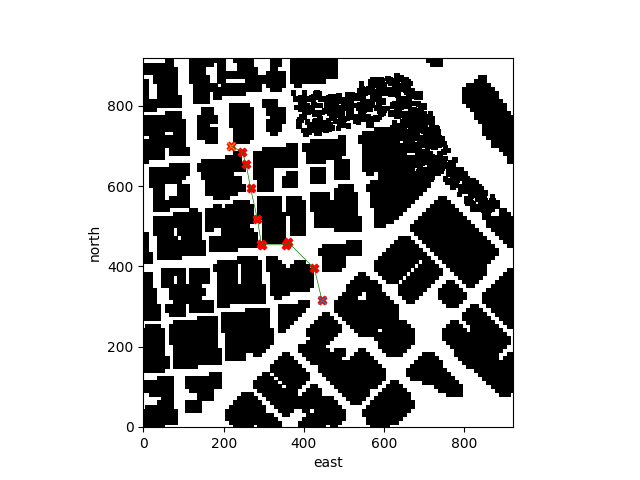
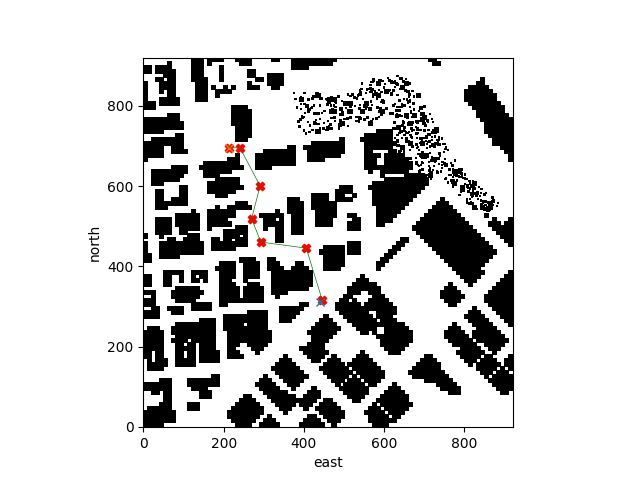
graph not working atm.

diff --git a/projects/FCND-Motion-Planning/motion_planning_original.py b/projects/FCND-Motion-Planning/motion_planning_original.py
@@ -5,16 +5,11 @@ from enum import Enum, auto
 
 import numpy as np
 
-from planning_utils import *
-from drawing_utils import plot_grid_path
+from planning_utils import a_star, heuristic, create_grid
 from udacidrone import Drone
 from udacidrone.connection import MavlinkConnection
 from udacidrone.messaging import MsgID
 from udacidrone.frame_utils import global_to_local
-
-import logging
-
-logging.basicConfig(level=logging.DEBUG)
 
 
 class States(Enum):
@@ -29,10 +24,10 @@ class States(Enum):
 
 class MotionPlanning(Drone):
 
-    def __init__(self, connection, target_lon, target_lat, target_alt, pruning_method, representation):
+    def __init__(self, connection):
         super().__init__(connection)
 
-        self.target_position = np.array([target_lon, target_lat, target_alt])
+        self.target_position = np.array([0.0, 0.0, 0.0])
         self.waypoints = []
         self.in_mission = True
         self.check_state = {}
@@ -44,12 +39,6 @@ class MotionPlanning(Drone):
         self.register_callback(MsgID.LOCAL_POSITION, self.local_position_callback)
         self.register_callback(MsgID.LOCAL_VELOCITY, self.velocity_callback)
         self.register_callback(MsgID.STATE, self.state_callback)
-
-        # prune method
-        self.pruning_method = pruning_method
-
-        # grid or graph method
-        self.representation = representation
 
     def local_position_callback(self):
         if self.flight_state == States.TAKEOFF:
@@ -84,49 +73,49 @@ class MotionPlanning(Drone):
 
     def arming_transition(self):
         self.flight_state = States.ARMING
-        logging.debug("arming transition")
+        print("arming transition")
         self.arm()
         self.take_control()
 
     def takeoff_transition(self):
         self.flight_state = States.TAKEOFF
-        logging.debug("takeoff transition")
+        print("takeoff transition")
         self.takeoff(self.target_position[2])
 
     def waypoint_transition(self):
         self.flight_state = States.WAYPOINT
-        logging.debug("waypoint transition")
+        print("waypoint transition")
         self.target_position = self.waypoints.pop(0)
-        logging.debug('target position {}'.format(self.target_position))
+        print('target position', self.target_position)
         self.cmd_position(self.target_position[0], self.target_position[1], self.target_position[2], self.target_position[3])
 
     def landing_transition(self):
         self.flight_state = States.LANDING
-        logging.debug("landing transition")
+        print("landing transition")
         self.land()
 
     def disarming_transition(self):
         self.flight_state = States.DISARMING
-        logging.debug("disarm transition")
+        print("disarm transition")
         self.disarm()
         self.release_control()
 
     def manual_transition(self):
         self.flight_state = States.MANUAL
-        logging.debug("manual transition")
+        print("manual transition")
         self.stop()
         self.in_mission = False
 
     def send_waypoints(self):
-        logging.debug("Sending waypoints to simulator ...")
+        print("Sending waypoints to simulator ...")
         data = msgpack.dumps(self.waypoints)
         self.connection._master.write(data)
 
     def plan_path(self):
         self.flight_state = States.PLANNING
-        logging.debug("Searching for a path ...")
+        print("Searching for a path ...")
         TARGET_ALTITUDE = 5
-        SAFETY_DISTANCE = 3
+        SAFETY_DISTANCE = 5
 
         self.target_position[2] = TARGET_ALTITUDE
 
@@ -136,7 +125,7 @@ class MotionPlanning(Drone):
             lat0 = float(line[1])
             lon0 = float(line[3])
 
-            logging.debug(' lat0 : {}, lon0 : {}'.format(lat0, lon0))
+            print('[info] lat0 : {}, lon0 : {}'.format(lat0, lon0))
 
         
         # TODO: set home position to (lon0, lat0, 0)
@@ -147,53 +136,37 @@ class MotionPlanning(Drone):
         global_position = self.global_position
 
 
- 
         # TODO: convert to current local position using global_to_local()
         local_position = global_to_local(global_position, (lon0, lat0, 0.0))
 
-        logging.debug(' current local position {}'.format(local_position))
+        print('[info] current local position {}'.format(local_position))
         
-        logging.debug(' global home {0}, position {1}, local position {2}'.format(self.global_home, self.global_position,
+        print('[info] global home {0}, position {1}, local position {2}'.format(self.global_home, self.global_position,
                                                                          self.local_position))
 
 
         # Read in obstacle map
         data = np.loadtxt('colliders.csv', delimiter=',', dtype='Float64', skiprows=2)
-
+        
         # Define a grid for a particular altitude and safety margin around obstacles
-        start = time.time()         
         grid, north_offset, east_offset = create_grid(data, TARGET_ALTITUDE, SAFETY_DISTANCE)
-        if self.representation == 'graph':
-            logging.info('Creating vronoi graph ...')
-            G, north_offset, east_offset = create_voronoi_grid_and_edges(data, TARGET_ALTITUDE, SAFETY_DISTANCE)
-        
-        
-        end = time.time()
-        logging.info('create_grid time {}s'.format(end - start))
-
-        logging.debug("North offset = {0}, east offset = {1}".format(north_offset, east_offset))
-
+        print("North offset = {0}, east offset = {1}".format(north_offset, east_offset))
         # Define starting point on the grid (this is just grid center)
         grid_start = (-north_offset, -east_offset)
         # TODO: convert start position to current position rather than map center
 
-        logging.debug(' original start {}'.format(grid_start))
-        debug = False
-        if debug is False: # return to home if we are debugging
-            grid_start = (grid_start[0] + int(local_position[0]), grid_start[1] + int(local_position[1]))
+        print('[info] original start {}'.format(grid_start))
+        grid_start = (grid_start[0] + int(local_position[0]), grid_start[1] + int(local_position[1]))
 
-        logging.debug(' new start {}'.format(grid_start))
+        print('[info] new start {}'.format(grid_start))
         
         # Set goal as some arbitrary position on the grid
         grid_goal = (-north_offset + 50, -east_offset + 50)
         # TODO: adapt to set goal as latitude / longitude position and convert
-        
-        global_goal = (self.target_position[0], self.target_position[1], TARGET_ALTITUDE)
+        global_goal = (-122.396207, 37.793935, TARGET_ALTITUDE)
 
-
-
-        logging.debug(' global_goal {}'.format(global_goal))
-        logging.debug(' global_home {}'.format((lon0, lat0, 0.0)))
+        print('[info] global_goal {}'.format(global_goal))
+        print('[info] global_home {}'.format((lon0, lat0, 0.0)))
 
         grid_goal = global_to_local(global_goal, (lon0, lat0, 0.0))
         grid_goal = (-north_offset + int(grid_goal[0]), -east_offset + int(grid_goal[1]))
@@ -203,52 +176,14 @@ class MotionPlanning(Drone):
         # Run A* to find a path from start to goal
         # TODO: add diagonal motions with a cost of sqrt(2) to your A* implementation
         # or move to a different search space such as a graph (not done here)
-        logging.debug('Local Start and Goal: {} {}'.format(grid_start, grid_goal))
-               
-
-        # A* for both grid and graph   
-        if self.representation == 'grid':
-            logging.info('Finding path using a* for grid ...')
-            path, _ = a_star(grid, heuristic, grid_start, grid_goal, representation=self.representation)
-        elif self.representation == 'graph':
-            logging.info('Finding path using a* for graph ...')
-
-            start_node = find_closest_node(grid_start, G)
-            end_node = find_closest_node(grid_goal, G)
-
-            logging.info('Start node : {}'.format(start_node))
-            logging.info('End node : {}'.format(end_node))
-
-            # Find start and end node in graph         
-
-            path, _ = a_star(G, heuristic, start_node, end_node, representation=self.representation)
-
-
-        # Path pruning 
-        if self.pruning_method == 'collinear':
-            start = time.time()
-            path = prune_path_collinearity(path, eps=0.005)
-            end = time.time()
-            logging.info('Pruning using collinearity took {}s'.format(end - start))           
-        elif self.pruning_method == 'bresenham':
-            start = time.time()
-            path = prune_path_bresenham(path, grid)
-            end = time.time()
-            logging.info('Pruning using bresenham took {}s'.format(end - start))
-        else:
-            logging.warning('Pruning {} not supported using default path'.format(self.pruning_method))
-
-
-        # Plots for debugging    
-        # plot_grid_path(grid, grid_start, grid_goal, path, 'after_col_prune')
-        # plot_grid_path(grid, grid_start, grid_goal, path, 'after_bres_prune')
-        # plot_graph(grid, G, 0, 0, path=path, start=(310.2389, 439.2315), end=(694.2389000000001, 213.23149999999998), plt_name='voronoi_graph')
-
-
+        print('Local Start and Goal: ', grid_start, grid_goal)
+        path, _ = a_star(grid, heuristic, grid_start, grid_goal)
+        # TODO: prune path to minimize number of waypoints
+        # TODO (if you're feeling ambitious): Try a different approach altogether!
 
         # Convert path to waypoints
-        waypoints = [[int(p[0] + north_offset), int(p[1] + east_offset), TARGET_ALTITUDE, 0] for p in path]
-        logging.debug(' waypoints {}'.format(waypoints))
+        waypoints = [[p[0] + north_offset, p[1] + east_offset, TARGET_ALTITUDE, 0] for p in path]
+        print('[info] waypoints {}'.format(waypoints))
         # Set self.waypoints
         self.waypoints = waypoints
         # TODO: send waypoints to sim (this is just for visualization of waypoints)
@@ -257,7 +192,7 @@ class MotionPlanning(Drone):
     def start(self):
         self.start_log("Logs", "NavLog.txt")
 
-        logging.debug("starting connection")
+        print("starting connection")
         self.connection.start()
 
         # Only required if they do threaded
@@ -271,30 +206,10 @@ if __name__ == "__main__":
     parser = argparse.ArgumentParser()
     parser.add_argument('--port', type=int, default=5760, help='Port number')
     parser.add_argument('--host', type=str, default='127.0.0.1', help="host address, i.e. '127.0.0.1'")
-
-    parser.add_argument('--target_lon', type=float, default=-122.40000, help='Target longitude')
-    parser.add_argument('--target_lat', type=float, default=37.795956, help='Target latitude')
-    parser.add_argument('--target_alt', type=float, default=0.0, help='Target altitude')
-    parser.add_argument('--pruning_method', type=str, default='bresenham', help='Pruning method, can be bresenham or collinear')
-    parser.add_argument('--representation', type=str, default='graph', help='Representation of map, can be grid or graph')
-
     args = parser.parse_args()
 
     conn = MavlinkConnection('tcp:{0}:{1}'.format(args.host, args.port), timeout=60)
-
-    target_lon = args.target_lon
-    target_lat = args.target_lat
-    target_alt = args.target_alt
-    pruning_method = args.pruning_method
-    representation = args.representation
-
-    drone = MotionPlanning(
-        conn, 
-        target_lon=target_lon, 
-        target_lat=target_lat, 
-        target_alt=target_alt, 
-        pruning_method=pruning_method, 
-        representation=representation)
+    drone = MotionPlanning(conn)
     time.sleep(1)
 
     drone.start()

diff --git a/projects/FCND-Motion-Planning/drawing_utils.py b/projects/FCND-Motion-Planning/drawing_utils.py
@@ -1,7 +1,7 @@
 import matplotlib.pyplot as plt
 import numpy as np
 from planning_utils import *
-
+import logging
 
 
 
@@ -28,9 +28,9 @@ def plot_grid_path(grid, start, end, path, plt_name='', show_fig=False):
 	plt.clf()
 
 
-def plot_graph(grid, G,  nmin, emin, start=None, end=None, height=5, safety=5):
+def plot_graph(grid, G,  nmin, emin, start=None, end=None, path=None,height=5, safety=5, plt_name='', show_fig=False):
 
-	
+	logging.info('Plotting graph ...')
 	plt.imshow(grid, cmap='Greys', origin='lower')
 
 
@@ -40,14 +40,27 @@ def plot_graph(grid, G,  nmin, emin, start=None, end=None, height=5, safety=5):
 		plt.plot([n1[1] - emin, n2[1] - emin], [n1[0] - nmin, n2[0] - nmin], 'black' , alpha=0.5)
 
 	#Draw connected nodes in red
-	for n1 in G.nodes:
-		plt.scatter(n1[1] - emin, n1[0] - nmin, c='red')
+	# for n1 in G.nodes:
+	# 	plt.scatter(n1[1] - emin, n1[0] - nmin, c='orange')
 
 	if start != None and end != None:
-		plt.scatter(start[0], start[1], c='blue', marker='x')
-		plt.scatter(end[0], end[1], c='blue', marker='x')
+		plt.scatter(start[1], start[0], c='blue', marker='x')
+		plt.scatter(end[1], end[0], c='blue', marker='x')
 
-	plt.show()
+	if path != None:
+		for i in range(len(path)-1):
+			p1 = path[i]
+			p2 = path[i+1]
+			plt.plot([p1[1], p2[1]], [p1[0], p2[0]], 'r-', alpha=1.0)
+
+
+	if plt_name != '':
+		plt.savefig('figs/'+plt_name+'.png')
+
+	if show_fig == True:
+		plt.show()
 	plt.clf()
+
+	logging.info('Finished graphing ...')
 
 

diff --git a/projects/FCND-Motion-Planning/planning_utils.py b/projects/FCND-Motion-Planning/planning_utils.py
@@ -171,8 +171,7 @@ def a_star(g, h, start, goal, representation='grid'):
                         branch[next_node] = (branch_cost, current_node, action)
                         queue.put((queue_cost, next_node))
             elif representation == 'graph':
-                print('graph', g)
-                print('current node', current_node)
+
                 for next_node in g[current_node]:
                     cost = g.edges[current_node, next_node]['weight']
                     branch_cost = current_cost + cost
@@ -255,7 +254,7 @@ def prune_path_bresenham(path, grid):
         n1 = current_node
         n2 = path[i + 1]
 
-        cells = list(bresenham(n1[0], n1[1], n2[0], n2[1]))
+        cells = list(bresenham(int(n1[0]), int(n1[1]), int(n2[0]), int(n2[1])))
 
         # Assume no obstacles in cells 
         has_obstacle = False
